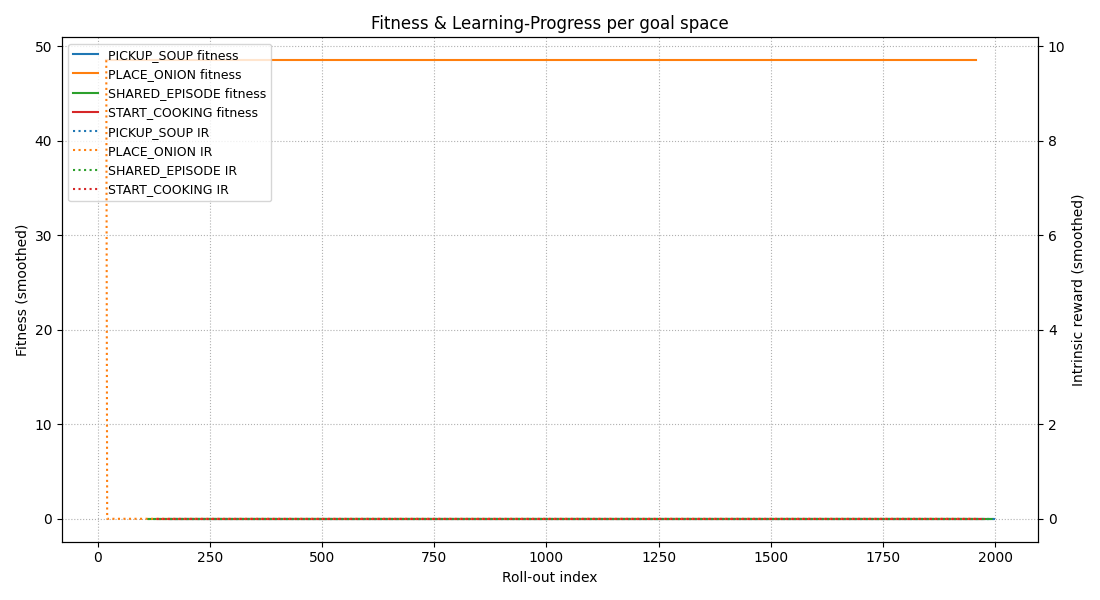
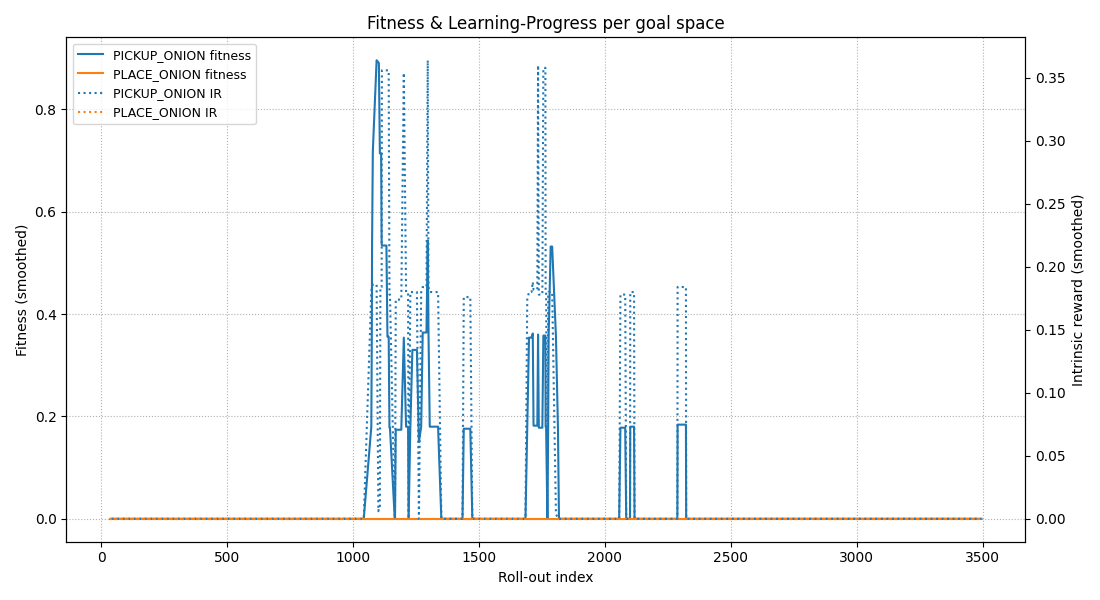
Implemented static goal space ema

diff --git a/IMGEP_agent/agent/agent.py b/IMGEP_agent/agent/agent.py
@@ -1,19 +1,25 @@
 import random
 from typing import List
 
-from IMGEP_agent.agent.goal_policy import select_goal_space
-from IMGEP_agent.agent.goals.goal_spaces import Goal, create_goal_spaces, shared_episode_space
+from IMGEP_agent.agent.goals.goal_policy import GoalSpaceEMA, select_goal_space, update_goal_space_ema
+from IMGEP_agent.agent.goals.goal_spaces import Goal, create_goal_spaces
 from IMGEP_agent.agent.helpers.get_plan import get_plan
 from IMGEP_agent.agent.helpers.obs_to_vect import obs_to_vec
 from IMGEP_agent.agent.knowledge_base import KnowledgeBase, RolloutRecord
 from IMGEP_agent.agent.neuro_policy.high_level_actions import HighLevelActions, get_motion_goals
 from IMGEP_agent.agent.neuro_policy.neuro_policy import GoalSpaceNeuroPolicy, get_neuro_policy
+from IMGEP_agent.hyper_parameters import EXPLOIT_PROB
 from overcooked_ai_py.agents.agent import Agent
 from overcooked_ai_py.mdp.actions import Action
 from overcooked_ai_py.mdp.overcooked_env import OvercookedEnv
 from overcooked_ai_py.mdp.overcooked_mdp import OvercookedGridworld, OvercookedState
 from overcooked_ai_py.planning.planners import MotionPlanner
 
+
+# TODO 1. Moet ik de keuze van het goal space afhankelijk maken van de state?
+# TODO 1a. Heeft 1 episode meerdere goals?
+# TODO 2. Hoe spelen de goal space intrinsic rewards van de andere agent een rol in de keuze van het goal space?
+# TODO 3. Hoe voorspel je de goal space van de andere agent op basis van de goal space intrinsic reward?
 
 class IMGEPAgent(Agent):
     def __init__(
@@ -30,7 +36,8 @@ class IMGEPAgent(Agent):
 
         self.goal_spaces: List[Goal] = create_goal_spaces()
         self.kb = KnowledgeBase()
-
+        self.goal_space_emas: List[GoalSpaceEMA] = []
+        self.update_goal_space_emas()
         # Rollout bookkeeping
         self.previous_state = None
         self.goal_space_neuro_policies: List[
@@ -40,9 +47,13 @@ class IMGEPAgent(Agent):
         self.rollout_fitness = 0.0
         self.path = []  # This will hold the path of actions to take
 
-        super().__init__()
+    def update_goal_space_emas(self):
+        """
+        Update the goal space EMA based on the knowledge base.
+        """
+        self.goal_space_emas = update_goal_space_ema(self.kb, self.goal_spaces)
 
-    def reset(self, mdp: OvercookedGridworld | None = None, shared_episode: bool = False, exploit: bool = False):
+    def reset(self, mdp: OvercookedGridworld | None = None):
         super().reset()
         self.mdp = mdp
         self.t = 0
@@ -50,8 +61,8 @@ class IMGEPAgent(Agent):
         self.goal_reach_time_step = None
         self.rollout_fitness = 0.0
         self.previous_state = None
-        chosen_goal = shared_episode_space() if shared_episode else select_goal_space(all_goal_spaces=self.goal_spaces,
-                                                                                      kb=self.kb)
+        chosen_goal = select_goal_space(self.goal_space_emas)
+        exploit = random.random() < EXPLOIT_PROB  # Decide whether to exploit or explore
         neuro_policy = get_neuro_policy(selected_goal=chosen_goal, kb=self.kb, exploit=exploit,
                                         goal_spaces=self.goal_spaces)
         self.goal_space_neuro_policies = [
@@ -75,21 +86,13 @@ class IMGEPAgent(Agent):
             if len(self.goal_space_neuro_policies) == 1:
                 self.goal_reach_time_step = self.t
             else:
-                self.rollout_fitness += self.goal_space_neuro_policies[-1].goal.fitness(
-                    # Only add the fitness of the first goal space
-                    pick_step=self.goal_reach_time_step,
-                    state=state,
-                    previous_state=self.previous_state,
-                    agent_id=self.agent_id,
-                    mdp=self.mdp
-                )
                 self.goal_space_neuro_policies.pop()
 
         if self.previous_state and (self.goal_reach_time_step is None or self.t == self.goal_reach_time_step) and len(
                 self.goal_space_neuro_policies) == 1:
             self.rollout_fitness += self.goal_space_neuro_policies[0].goal.fitness(
                 # Only add the fitness of the first goal space
-                pick_step=self.t,
+                pick_step=self.goal_reach_time_step,
                 state=state,
                 previous_state=self.previous_state,
                 agent_id=self.agent_id,
@@ -142,7 +145,7 @@ class IMGEPAgent(Agent):
         goal = self.goal_space_neuro_policies[0].goal  # The first goal is the main goal space
         neuro_policy = self.goal_space_neuro_policies[0].neuro_policy
         exploit = self.goal_space_neuro_policies[0].exploit
-        prev_record = self.kb.nearest(goal, 1, exploit=exploit)
+        prev_record = self.kb.nearest(goal=goal, k=1, exploit=exploit)
         prev_f = prev_record[0].fitness if prev_record else 0.0
 
         fitness_difference = self.rollout_fitness - prev_f
@@ -166,3 +169,4 @@ class IMGEPAgent(Agent):
                 exploit=exploit,
                 rollout_idx=rollout_idx,
             ))
+        self.update_goal_space_emas()

diff --git a/IMGEP_agent/agent/goals/goal_selection.py b/IMGEP_agent/agent/goals/goal_selection.py
@@ -1,0 +1,89 @@
+"""goal_selection.py
+
+Utility to choose collaborative goals for two agents given their goalspaces.
+
+A *goalspace* is a list[dict] where each dict at least contains:
+    id:       any hashable identifier
+    ema:      float        # Exponential moving average of intrinsic reward / competence progress
+    embed:    np.ndarray   # Continuous embedding of the goal for compatibility computation
+Optional keys are ignored by the algorithm.
+
+Algorithm (perfect‑info prototype):
+1. Predict partner's goal as the one with highest EMA in their space.
+2. For each candidate g in own space compute
+       score = zscore(ema_g)  +  delta * phi(embed_g, embed_partner_pred)
+   where phi = -cosine(embed_g, embed_partner_pred) to favour complementary goals.
+3. Select argmax score.  (temperature‑controlled softmax sampling optional).
+4. Repeat symmetrically for the other agent so the choice is simultaneous.
+"""
+
+from __future__ import annotations
+
+from typing import Dict, List, Tuple
+
+import numpy as np
+
+
+def _zscore(x: np.ndarray, eps: float = 1e-8) -> np.ndarray:
+    """Return standardised array (zero‑mean, unit‑var)."""
+    mu, sig = x.mean(), x.std()
+    return (x - mu) / (sig + eps)
+
+
+def _cosine(a: np.ndarray, b: np.ndarray, eps: float = 1e-8) -> float:
+    """Cosine similarity of two 1‑D vectors."""
+    num = (a * b).sum()
+    den = np.linalg.norm(a) * np.linalg.norm(b) + eps
+    return num / den
+
+
+def choose_goal_pair(
+        g1: List[Dict],
+        g2: List[Dict],
+        delta: float = 0.1,
+        tau: float = 0.0,
+) -> Tuple[Dict, Dict]:
+    """Return selected goals (g*_1, g*_2) for Agent‑1 and Agent‑2.
+
+    Parameters
+    ----------
+    g1, g2 : list of goal dicts
+        Each dict needs keys 'ema' and 'embed'.
+    delta : float
+        Coordination trade‑off weight.
+    tau : float
+        Boltzmann temperature; 0 ⇒ greedy argmax.
+    """
+    # Build numpy arrays for EMA and embeddings
+    ema1 = np.array([g['ema'] for g in g1], dtype=np.float32)
+    ema2 = np.array([g['ema'] for g in g2], dtype=np.float32)
+    E1 = np.stack([g['embed'] for g in g1])
+    E2 = np.stack([g['embed'] for g in g2])
+
+    # Predict each other's goal as max‑EMA in partner space
+    idx2_hat = int(ema2.argmax())
+    idx1_hat = int(ema1.argmax())
+    e2_hat = E2[idx2_hat]
+    e1_hat = E1[idx1_hat]
+
+    # Compute compatibility φ = −cosine
+    phi1 = -np.array([_cosine(e, e2_hat) for e in E1])
+    phi2 = -np.array([_cosine(e, e1_hat) for e in E2])
+
+    # Scores
+    scores1 = _zscore(ema1) + delta * phi1
+    scores2 = _zscore(ema2) + delta * phi2
+
+    if tau > 0.0:
+        # Soft selection
+        probs1 = np.exp(scores1 / tau);
+        probs1 /= probs1.sum()
+        probs2 = np.exp(scores2 / tau);
+        probs2 /= probs2.sum()
+        idx1 = int(np.random.choice(len(g1), p=probs1))
+        idx2 = int(np.random.choice(len(g2), p=probs2))
+    else:
+        idx1 = int(scores1.argmax())
+        idx2 = int(scores2.argmax())
+
+    return g1[idx1], g2[idx2]

diff --git a/IMGEP_agent/agent/goals/goal_policy.py b/IMGEP_agent/agent/goals/goal_policy.py
@@ -1,0 +1,53 @@
+import random
+from collections import defaultdict
+from typing import Dict, List
+
+from IMGEP_agent.agent.goals.goal_spaces import Goal
+from IMGEP_agent.agent.knowledge_base import KnowledgeBase, RolloutRecord
+from IMGEP_agent.hyper_parameters import GOAL_EMA_ALPHA
+
+
+class GoalSpaceEMA:
+    # Holds the EMA of the intrinsic reward for a goal space
+    def __init__(self, goal: Goal, ema):
+        self.goal: Goal = goal
+        self.ema = ema
+
+
+def select_goal_space(goal_space_emas: List[GoalSpaceEMA]) -> Goal:
+    # 20% exploration
+    # if random.random() > GOAL_GREEDY_PROB:
+    #     return random.choice(goal_space_emas).goal
+
+
+    # find max EMA
+    max_ema = max(gs.ema for gs in goal_space_emas)
+    candidates = [gs.goal for gs in goal_space_emas if gs.ema == max_ema]
+
+    return random.choice(candidates)
+
+
+def update_goal_space_ema(
+        kb: KnowledgeBase,
+        goal_spaces: List[Goal],
+        alpha: float = GOAL_EMA_ALPHA
+) -> List[GoalSpaceEMA]:
+    # Pull N most-recent records once
+    recent_records: List[RolloutRecord] = kb.nearest(100, exploit=True)
+
+    # Bucket them by goal_space_id → [records...]
+    records_by_goal: Dict[int, List[RolloutRecord]] = defaultdict(list)
+    for r in recent_records:
+        records_by_goal[r.goal_space_id].append(r)
+
+    result: List[GoalSpaceEMA] = []
+
+    for goal in goal_spaces:
+        records = records_by_goal.get(goal.goal_id, [])
+        if records:
+            avg_reward = sum(rec.intrinsic_reward for rec in records) / len(records)
+        else:
+            avg_reward = 0.0
+        result.append(GoalSpaceEMA(goal, avg_reward))
+
+    return result

diff --git a/IMGEP_agent/run_rollout.py b/IMGEP_agent/run_rollout.py
@@ -1,8 +1,7 @@
 import copy
-import random
 
 from IMGEP_agent.agent.agent import IMGEPAgent
-from IMGEP_agent.hyper_parameters import EXPLOIT_PROB, HORIZON, LAYOUT_ID, LOAD_KB, ROLLOUTS
+from IMGEP_agent.hyper_parameters import HORIZON, LAYOUT_ID, LOAD_KB, ROLLOUTS
 from IMGEP_agent.visualise.create_gif import create_gif
 from IMGEP_agent.visualise.visualise import make_graphs
 from overcooked_ai_py.data.layouts.layouts import layouts
@@ -30,7 +29,9 @@ mlam = env.mlam
 
 agents = [IMGEPAgent(env, mdp, agent_id) for agent_id in range(2)]
 if LOAD_KB:
-    for ag in agents: ag.kb.load_buffer("agent/kb/buffer_rollouts" + str(ag.agent_id) + ".pkl")
+    for ag in agents:
+        ag.kb.load_buffer("agent/kb/buffer_rollouts" + str(ag.agent_id) + ".pkl")
+        ag.update_goal_space_emas()
 # ---------------------------------------------------------------- run one roll-out
 
 ROLL_OUTS = ROLLOUTS
@@ -38,10 +39,8 @@ ROLL_OUTS = ROLLOUTS
 for roll in range(ROLL_OUTS):
     print(roll)
     env.reset(regen_mdp=True)
-    shared_episode = random.random() < 0.2  # Randomly decide if this is a shared episode
 
-    exploit = random.random() < EXPLOIT_PROB  # Randomly decide if this is an exploit episode
-    for ag in agents: ag.reset(mdp, shared_episode=shared_episode, exploit=exploit)
+    for ag in agents: ag.reset(mdp)
     done = False
     state = env.state
     # -------- record trajectory -----------------------------------------

diff --git a/IMGEP_agent/agent/knowledge_base.py b/IMGEP_agent/agent/knowledge_base.py
@@ -31,16 +31,29 @@ class KnowledgeBase:
         """Insert a new experiment and flag index for rebuild."""
         self.buffer.append(rec)
 
-    def nearest(self, goal: Goal, k: int, exploit: bool | None = None) -> List[RolloutRecord] | None:
+    def nearest(
+            self,
+            k: int,
+            exploit: bool | None = None,
+            goal: Goal | None = None
+    ) -> list[RolloutRecord]:
         """
-        Return the db_ids(s) of the most similar past experiment.
+        Return the k most-recent rollout records that satisfy the optional
+        `goal` and `exploit` filters (newest first).
         """
-        nearest = []
-        for index, g in enumerate(reversed(self.buffer)):  # Iterate in reverse order
-            if g.goal_space_id == goal.goal_id and (exploit is None or g.exploit == exploit):
-                nearest.append(g)
+        nearest: list[RolloutRecord] = []
+
+        for rec in reversed(self.buffer):  # newest → oldest
+            # ---------- filter gates ----------
+            if exploit is not None and rec.exploit != exploit:
+                continue
+            if goal is not None and rec.goal_space_id != goal.goal_id:
+                continue
+            # ---------- passed all gates ----------
+            nearest.append(rec)
             if len(nearest) == k:
                 break
+
         return nearest
 
     def __len__(self):

diff --git a/IMGEP_agent/agent/goals/goal_spaces.py b/IMGEP_agent/agent/goals/goal_spaces.py
@@ -9,10 +9,10 @@ from overcooked_ai_py.mdp.overcooked_mdp import OvercookedGridworld, OvercookedS
 
 
 class GoalSpaceEnum(IntEnum):
-    SHARED_EPISODE = 0
     PLACE_ONION = 1
     START_COOKING = 2
     PICKUP_SOUP = 3
+    PICKUP_ONION = 4
 
     @classmethod
     def get_goal_space_name(cls, value: int) -> str:
@@ -130,21 +130,10 @@ def pickup_soup_space() -> Goal:
 
     return Goal(GoalSpaceEnum.PICKUP_SOUP, fitness_fn=fitness, success_fn=success)
 
-
-def shared_episode_space() -> Goal:
-    def fitness(pick_step: int, state: OvercookedState, previous_state: OvercookedState,
-                agent_id: int, mdp: OvercookedGridworld):
-        return 0.0  # The fitness is based on the rewards from the environment, not the goal space
-
-    def success(agent_id: int, state: OvercookedState, previous_state: OvercookedState,
-                mdp: OvercookedGridworld):
-        return False
-
-    return Goal(GoalSpaceEnum.SHARED_EPISODE, fitness_fn=fitness, success_fn=success)
-
 def create_goal_spaces() -> List[Goal]:
     return [
         place_object_space(GoalSpaceEnum.PLACE_ONION, ItemCode.ONION.value, TYPE_TO_CODE[COUNTER]),
-        start_cooking_space(),
-        pickup_soup_space(),
+        pick_object_space(GoalSpaceEnum.PICKUP_ONION, ItemCode.ONION.value),
+        # start_cooking_space(),
+        # pickup_soup_space(),
     ]

diff --git a/IMGEP_agent/hyper_parameters.py b/IMGEP_agent/hyper_parameters.py
@@ -1,8 +1,8 @@
 # ROLLOUT PARAMETERS
 HORIZON = 100  # number of steps to run per rollout
-ROLLOUTS = 2000  # number of rollouts to run
+ROLLOUTS = 500  # number of rollouts to run
 LAYOUT_ID = 22  # layout index to use from the layouts list in overcooked_ai_py
-LOAD_KB = False  # whether to load the knowledge base from a file or not
+LOAD_KB = True  # whether to load the knowledge base from a file or not
 
 # AGENT PARAMETERS
 EXPLOIT_PROB = 0.2  # probability of exploiting the current policy
@@ -13,6 +13,6 @@ ADAPTIVE_NOISE_STD = 0.1  # standard deviation for the adaptive noise added to t
 PARENT_POLICY_RECENT_RECORDS = 50  # number of recent records to consider when selecting a parent policy
 
 ### GOAL SELECTION PARAMETERS
-GOAL_EMA_K = 20  # How many past exploit records to include in the EMA
+GOAL_EMA_K = 50  # How many past exploit records to include in the EMA
 GOAL_EMA_ALPHA = 0.6  # Smoothing factor for the EMA (0 < ALPHA <= 1)
 GOAL_GREEDY_PROB = 0.8  # Probability of selecting the greedy goal space

diff --git a/IMGEP_agent/agent/neuro_policy/neuro_policy.py b/IMGEP_agent/agent/neuro_policy/neuro_policy.py
@@ -85,9 +85,9 @@ def get_neuro_policy(selected_goal: Goal, kb: KnowledgeBase, goal_spaces: List[G
     # TODO include the shared episode reward into the policy selection.
     # TODO this should probably be done on reset. The shared episode reward should be a scalar from 0 tot 1 depending on the 50 recent episodes shared reward
 
-    if not kb.nearest(selected_goal, 1):
+    if not kb.nearest(goal=selected_goal, k=1):
         return NeuroPolicy(goal_spaces)
-    rec = kb.nearest(selected_goal, PARENT_POLICY_RECENT_RECORDS)
+    rec = kb.nearest(goal=selected_goal, k=PARENT_POLICY_RECENT_RECORDS)
     if exploit:
         # exploit: use the best policy from the knowledge base
         best_idx = np.argmax([r.fitness for r in rec])
